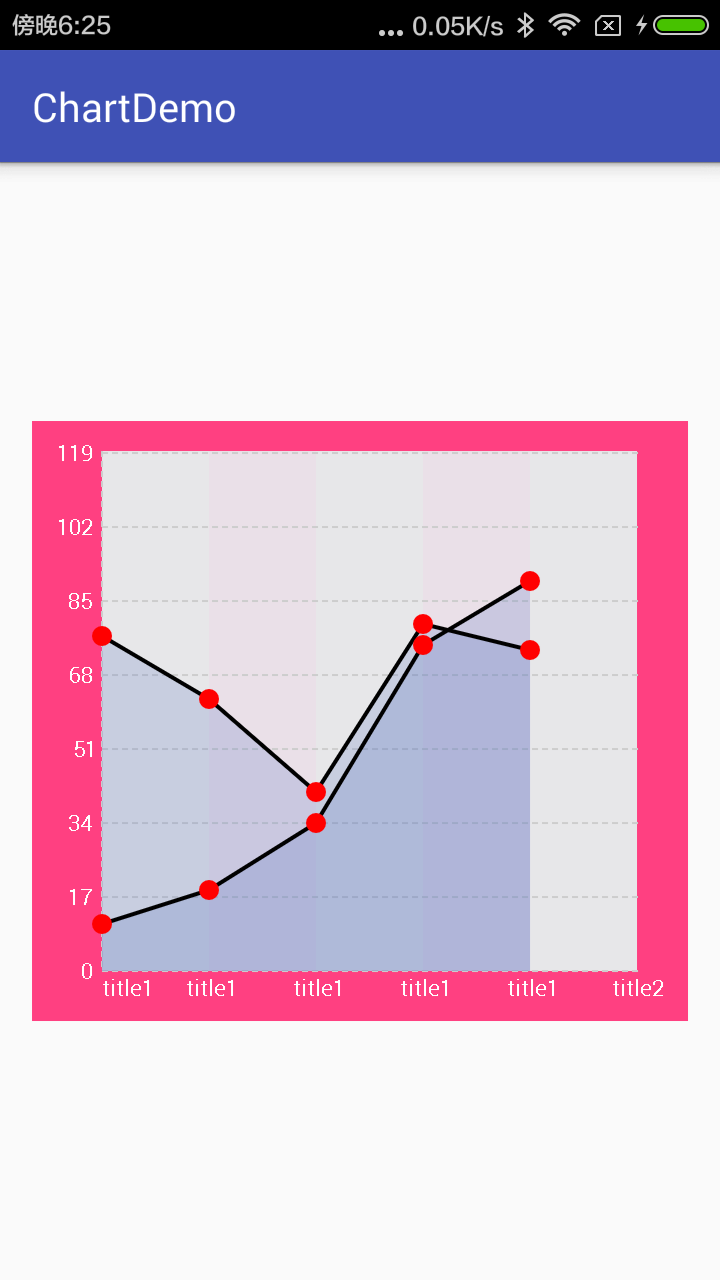
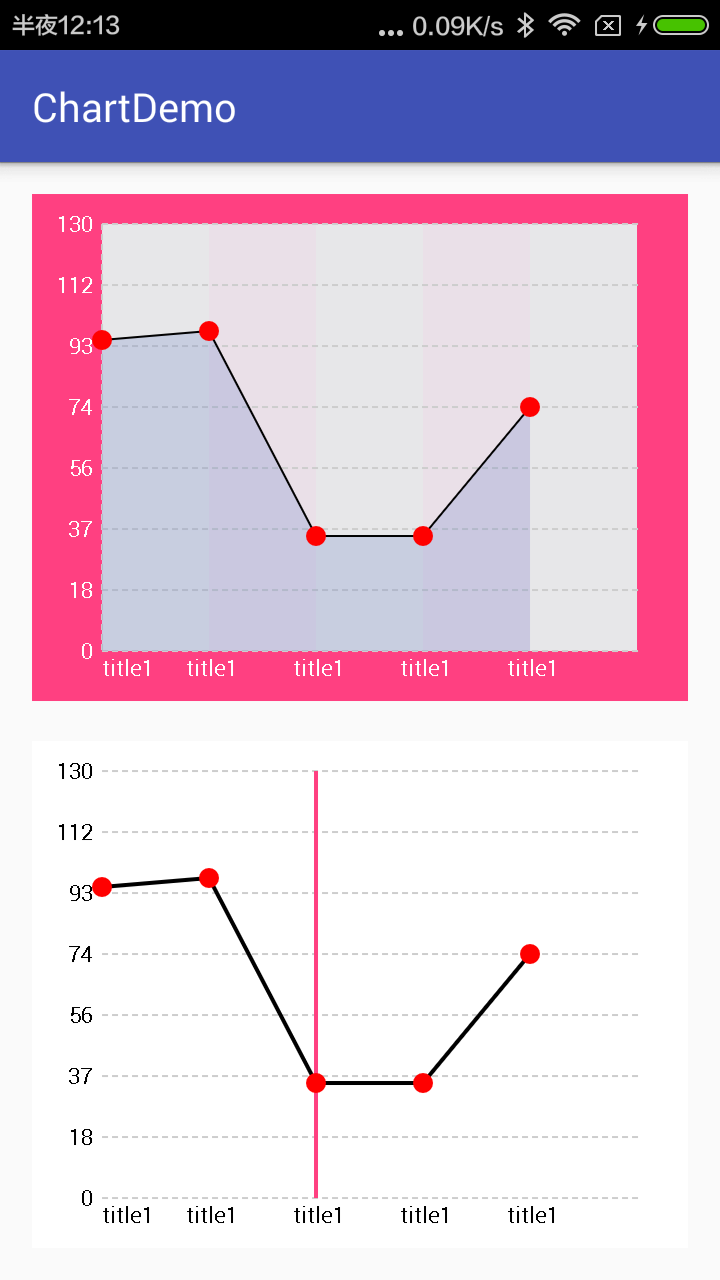
新增 特定选中Y轴内部线的 颜色、宽度

diff --git a/app/src/main/java/com/dzq/chartdemo/widget/DzqLineChart.java b/app/src/main/java/com/dzq/chartdemo/widget/DzqLineChart.java
@@ -46,12 +46,15 @@ public class DzqLineChart extends View {
 
     private int circleDotRadius = 10;//折线上圆点半径  默认10
     private int titleXRotateDegrees = 0;// X轴 标题 旋转角度
-    private float xyAxisLineStrokeWidth = 3;// X、Y 轴 线宽度，（包括内部的X、Y 轴 线 ）
+    private float xyAxisLineStrokeWidth = 2;// X、Y 轴 线宽度，（包括内部的X、Y 轴 线 ）
 
+    private int selectedPositionInsideY = -1;// 选中的 内部Y轴 position, （ >=0 && < numberOfX &&绘制内部的Y轴完成）  才会绘制出来
+    private int selectedPositionInsideYLineColor = Color.BLACK;//选中的 内部Y轴 的线颜色  默认黑色 Color.BLACK
+    private float selectedPositionInsideYStrokeWidth = 2;// 选中的 内部Y轴线 宽度
 
-    private Integer circleDotBitmapNotSet = Color.RED;//折线上圆点颜色  圆点Bitmap数组若不设置  圆点默认黑色 Color.RED
-    private Integer lineColorNotSet = Color.BLACK;//折线颜色  若不设置  默认黑色 Color.BLACK
-    private float lineChartStrokeWidth = 3;// 折线 宽度
+    private int circleDotBitmapNotSet = Color.RED;//折线上圆点颜色  圆点Bitmap数组若不设置  圆点默认黑色 Color.RED
+    private int lineColorNotSet = Color.BLACK;//折线颜色  若不设置  默认黑色 Color.BLACK
+    private float lineChartStrokeWidth = 2;// 折线 宽度
 
     private int bgColor = Color.WHITE;// View 的背景色   默认白色 ffffff
     private int singleColumnFillColor = Color.rgb(Integer.parseInt("e7", 16),
@@ -74,10 +77,10 @@ public class DzqLineChart extends View {
     private List<String> titleYList;// 计算得出的Y轴标题
     private List<List<Float>> pointList;// 传入的数据
 
-    private boolean isDrawXDashedY = false;// 是否绘制Y轴 虚线
+    private boolean isDrawYDashed = false;// 是否绘制Y轴 虚线
     private boolean isDrawY = true;// 是否绘制Y轴
     private boolean isDrawX = true;// 是否绘制X轴
-    private boolean isDrawXDashedX = false;// 是否绘制X轴 虚线
+    private boolean isDrawXDashed = false;// 是否绘制X轴 虚线
 
     private boolean isDrawInsideDashedY = true;// 是否绘制内部的Y轴 虚线
     private boolean isDrawInsedeY = true;// 是否绘制内部的Y轴
@@ -110,8 +113,8 @@ public class DzqLineChart extends View {
         TypedArray array = getContext().obtainStyledAttributes(attrs, R.styleable.DzqLineChart, defStyle, 0);
         isDrawX = array.getBoolean(R.styleable.DzqLineChart_isDrawX, isDrawX);
         isDrawY = array.getBoolean(R.styleable.DzqLineChart_isDrawY, isDrawY);
-        isDrawXDashedX = array.getBoolean(R.styleable.DzqLineChart_isDrawXDashedX, isDrawXDashedX);
-        isDrawXDashedY = array.getBoolean(R.styleable.DzqLineChart_isDrawXDashedY, isDrawXDashedY);
+        isDrawXDashed = array.getBoolean(R.styleable.DzqLineChart_isDrawXDashed, isDrawXDashed);
+        isDrawYDashed = array.getBoolean(R.styleable.DzqLineChart_isDrawYDashed, isDrawYDashed);
         isDrawInsideX = array.getBoolean(R.styleable.DzqLineChart_isDrawInsideX, isDrawInsideX);
         isDrawInsedeY = array.getBoolean(R.styleable.DzqLineChart_isDrawInsedeY, isDrawInsedeY);
         isDrawInsideDashedX = array.getBoolean(R.styleable.DzqLineChart_isDrawInsideDashedX, isDrawInsideDashedX);
@@ -127,6 +130,10 @@ public class DzqLineChart extends View {
         textColor = array.getColor(R.styleable.DzqLineChart_textColor, textColor);
         bgColor = array.getColor(R.styleable.DzqLineChart_bgColor, bgColor);
         xyAxisLineColor = array.getColor(R.styleable.DzqLineChart_xyAxisLineColor, xyAxisLineColor);
+
+        selectedPositionInsideY = array.getInt(R.styleable.DzqLineChart_selectedPositionInsideY, selectedPositionInsideY);
+        selectedPositionInsideYLineColor = array.getColor(R.styleable.DzqLineChart_selectedPositionInsideYLineColor, selectedPositionInsideYLineColor);
+        selectedPositionInsideYStrokeWidth = array.getDimension(R.styleable.DzqLineChart_selectedPositionInsideYStrokeWidth, selectedPositionInsideYStrokeWidth);
 
         array.recycle();
 
@@ -262,12 +269,12 @@ public class DzqLineChart extends View {
         paint.setColor(xyAxisLineColor);// //表格线颜色
         paint.setStrokeWidth(xyAxisLineStrokeWidth);
 
-        if (isDrawX) {
+        if (isDrawX) {//是否绘制X轴
             int appendX = 0;
             if (isAppendX) {
                 appendX = appendXLength;
             }
-            if (isDrawXDashedX) {
+            if (isDrawXDashed) {
                 paintDashed(canvas, paddingLeft - appendX, paddingTop + listY.get(0).y, listY.get(0).x
                                 + paddingLeft,
                         paddingTop + listY.get(0).y, xyAxisLineColor);
@@ -276,15 +283,16 @@ public class DzqLineChart extends View {
                                 + paddingLeft,
                         paddingTop + listY.get(0).y, paint);
         }
-        if (isDrawY) {
-            if (isDrawXDashedY) {
+        if (isDrawY) {//是否绘制Y轴
+            if (isDrawYDashed) {
                 paintDashed(canvas, listX.get(0).x, paddingTop, listX.get(0).x, listX.get(0).y + paddingTop, xyAxisLineColor);
             } else
                 canvas.drawLine(listX.get(0).x, paddingTop, listX.get(0).x, listX.get(0).y + paddingTop, paint);
         }
 
-        if (isDrawInsedeY) {// 绘制纵向的
-            for (int i = 1; i < listX.size(); i++) {// 第一根内部 x轴线 和 X轴线 重叠，故不绘制第一条线
+        if (isDrawInsedeY) {// 是否绘制内部的Y轴
+            for (int i = 0; i < listX.size(); i++) {// 第一根内部 y轴线 和 Y轴线 重叠，故绘制Y轴的时候 不绘制第一条线
+                if (isDrawY && i == 0) continue;
                 Point point = listX.get(i);
                 if (isDrawInsideDashedY) {
                     paintDashed(canvas, point.x, paddingTop, point.x, point.y + paddingTop, xyAxisLineColor);
@@ -294,13 +302,13 @@ public class DzqLineChart extends View {
 
             }
         }
-        if (isDrawInsideX) {// 绘制横向的
+        if (isDrawInsideX) {// 是否绘制内部的X轴
 
             int appendX = 0;
             if (isAppendX) {
                 appendX = appendXLength;
             }
-            for (int i = 1; i < listY.size(); i++) {// 第一根内部 x轴线 和 X轴线 重叠，故不绘制第一条线
+            for (int i = (isDrawX ? 1 : 0); i < listY.size(); i++) {// 第一根内部 x轴线 和 X轴线 重叠，故绘制X轴的时候 不绘制第一条线
                 Point point = listY.get(i);
                 if (isDrawInsideDashedX) {
                     paintDashed(canvas, paddingLeft - appendX, paddingTop + point.y, point.x + paddingLeft,
@@ -312,6 +320,14 @@ public class DzqLineChart extends View {
 
             }
 
+        }
+
+        //  选中的 内部Y轴 position, （selectedPositionInsideY >=0 && < numberOfX &&绘制内部的Y轴完成）  才会绘制出来
+        paint.setColor(selectedPositionInsideYLineColor);// //表格线颜色
+        paint.setStrokeWidth(selectedPositionInsideYStrokeWidth);
+        if (selectedPositionInsideY >= 0 && selectedPositionInsideY < listX.size()) {
+            Point point = listX.get(selectedPositionInsideY);
+            canvas.drawLine(point.x, paddingTop, point.x, point.y + paddingTop, paint);
         }
 
     }
@@ -511,7 +527,7 @@ public class DzqLineChart extends View {
         canvas.drawPath(path, paint);
     }
 
-    public void setTextSize(int textSize) {
+    public void setTextSize(float textSize) {
         this.textSize = textSize;
     }
 
@@ -543,6 +559,10 @@ public class DzqLineChart extends View {
         this.paddingBottom = paddingBottom;
     }
 
+    public void setyTitle2RightPadding(int yTitle2RightPadding) {
+        this.yTitle2RightPadding = yTitle2RightPadding;
+    }
+
     public void setAppendXLength(int appendXLength) {
         this.appendXLength = appendXLength;
     }
@@ -555,19 +575,31 @@ public class DzqLineChart extends View {
         this.titleXRotateDegrees = titleXRotateDegrees;
     }
 
-    public void setXyAxisLineStrokeWidth(int xyAxisLineStrokeWidth) {
+    public void setXyAxisLineStrokeWidth(float xyAxisLineStrokeWidth) {
         this.xyAxisLineStrokeWidth = xyAxisLineStrokeWidth;
     }
 
-    public void setCircleDotBitmapNotSet(Integer circleDotBitmapNotSet) {
+    public void setSelectedPositionInsideY(int selectedPositionInsideY) {
+        this.selectedPositionInsideY = selectedPositionInsideY;
+    }
+
+    public void setSelectedPositionInsideYLineColor(int selectedPositionInsideYLineColor) {
+        this.selectedPositionInsideYLineColor = selectedPositionInsideYLineColor;
+    }
+
+    public void setSelectedPositionInsideYStrokeWidth(float selectedPositionInsideYStrokeWidth) {
+        this.selectedPositionInsideYStrokeWidth = selectedPositionInsideYStrokeWidth;
+    }
+
+    public void setCircleDotBitmapNotSet(int circleDotBitmapNotSet) {
         this.circleDotBitmapNotSet = circleDotBitmapNotSet;
     }
 
-    public void setLineColorNotSet(Integer lineColorNotSet) {
+    public void setLineColorNotSet(int lineColorNotSet) {
         this.lineColorNotSet = lineColorNotSet;
     }
 
-    public void setLineChartStrokeWidth(int lineChartStrokeWidth) {
+    public void setLineChartStrokeWidth(float lineChartStrokeWidth) {
         this.lineChartStrokeWidth = lineChartStrokeWidth;
     }
 
@@ -595,18 +627,6 @@ public class DzqLineChart extends View {
         this.yAxisUnit = yAxisUnit;
     }
 
-    public void setScreenX(int screenX) {
-        ScreenX = screenX;
-    }
-
-    public void setScreenY(int screenY) {
-        ScreenY = screenY;
-    }
-
-    public void setMaxNumber(float maxNumber) {
-        this.maxNumber = maxNumber;
-    }
-
     public void setCircleDotBitmapList(List<Integer> circleDotBitmapList) {
         this.circleDotBitmapList = circleDotBitmapList;
     }
@@ -623,8 +643,8 @@ public class DzqLineChart extends View {
         this.pointList = pointList;
     }
 
-    public void setDrawXDashedY(boolean drawXDashedY) {
-        isDrawXDashedY = drawXDashedY;
+    public void setDrawYDashed(boolean drawYDashed) {
+        isDrawYDashed = drawYDashed;
     }
 
     public void setDrawY(boolean drawY) {
@@ -635,8 +655,8 @@ public class DzqLineChart extends View {
         isDrawX = drawX;
     }
 
-    public void setDrawXDashedX(boolean drawXDashedX) {
-        isDrawXDashedX = drawXDashedX;
+    public void setDrawXDashed(boolean drawXDashed) {
+        isDrawXDashed = drawXDashed;
     }
 
     public void setDrawInsideDashedY(boolean drawInsideDashedY) {
@@ -655,15 +675,15 @@ public class DzqLineChart extends View {
         isDrawInsideDashedX = drawInsideDashedX;
     }
 
+    public void setColumnFillColor(boolean columnFillColor) {
+        isColumnFillColor = columnFillColor;
+    }
+
     public void setFillDown(boolean fillDown) {
         isFillDown = fillDown;
     }
 
     public void setAppendX(boolean appendX) {
         isAppendX = appendX;
-    }
-
-    public void setColumnFillColor(boolean columnFillColor) {
-        isColumnFillColor = columnFillColor;
     }
 }

diff --git a/app/src/main/java/com/dzq/chartdemo/MainActivity.java b/app/src/main/java/com/dzq/chartdemo/MainActivity.java
@@ -22,6 +22,7 @@ public class MainActivity extends AppCompatActivity {
         super.onCreate(savedInstanceState);
         setContentView(R.layout.activity_main);
         DzqLineChart dzqLineChart = (DzqLineChart) findViewById(R.id.lay_lineChart);
+        DzqLineChart dzqLineChart2 = (DzqLineChart) findViewById(R.id.lay_lineChart2);
 
         pointList = new ArrayList<List<Float>>();
         titleXList = new ArrayList<String>();
@@ -30,7 +31,7 @@ public class MainActivity extends AppCompatActivity {
         circleDotBitmapList = new ArrayList<>();
         circleDotBitmapList.add(R.mipmap.icon_chart_dot);
 
-        for (int i = 0; i < 2; i++) {
+        for (int i = 0; i < 1; i++) {
             List<Float> pointInList = new ArrayList<Float>();
             for (int j = 0; j < 5; j++) {
                 Random r = new Random();
@@ -47,6 +48,9 @@ public class MainActivity extends AppCompatActivity {
 //        dzqLineChart.setLineColorList(lineColorList);
 //        dzqLineChart.setCircleDotBitmapList(circleDotBitmapList);
 //        dzqLineChart.setSingleColumnFillColor(getResources().getColor(R.color.colorAccent));
+
+        dzqLineChart2.setPointList(pointList);
+        dzqLineChart2.setTitleXList(titleXList);
 
     }
 }

diff --git a/README.md b/README.md
@@ -2,7 +2,70 @@
 android自定义控件-折线图，绝对呕心沥血之作！！！
 可以显示多条折线，能够设置的功能有：图表背景色；标题字体的大小，
 颜色；XY轴的颜色、线的宽度，实线还是虚线；折线的颜色、宽度；数据点的图标，
-不设置的话，默认红色圆点，可设置圆点半径；。。。其他功能详见代码
+不设置的话，默认红色圆点，可设置圆点半径；特定选中Y轴内部线的 颜色、宽度。。。其他功能详见代码
+
+    private float textSize = 20;// X、Y轴 字体大小  默认 20px
+    private int textColor = Color.BLACK;// X、Y轴 字体颜色   默认黑色 Color.BLACK
+
+    private int numberOfX = 6;// X轴 最多显示几个值  默认6个
+    private int numberOfY = 8;// Y轴 最多显示几个值  默认8个
+
+    private int paddingTop = 30;// View上边界距离 折线绘制区的 距离
+    private int paddingLeft = 70;// View左边界距离 Y轴的 距离
+    private int paddingRight = 50;// View右边界距离 折线绘制区的 距离
+    private int paddingBottom = 50;// View下边界距离 X轴的 距离
+
+    private int yTitle2RightPadding = 10;// Y 轴上标题距离右侧 内容区的距离
+
+    private int appendXLength = 10;// 向左X轴突出的长度
+
+    private int circleDotRadius = 10;//折线上圆点半径  默认10
+    private int titleXRotateDegrees = 0;// X轴 标题 旋转角度
+    private float xyAxisLineStrokeWidth = 2;// X、Y 轴 线宽度，（包括内部的X、Y 轴 线 ）
+
+    private int selectedPositionInsideY = -1;// 选中的 内部Y轴 position, （ >=0 && < numberOfX &&绘制内部的Y轴完成）  才会绘制出来
+    private int selectedPositionInsideYLineColor = Color.BLACK;//选中的 内部Y轴 的线颜色  默认黑色 Color.BLACK
+    private float selectedPositionInsideYStrokeWidth = 2;// 选中的 内部Y轴线 宽度
+
+    private int circleDotBitmapNotSet = Color.RED;//折线上圆点颜色  圆点Bitmap数组若不设置  圆点默认黑色 Color.RED
+    private int lineColorNotSet = Color.BLACK;//折线颜色  若不设置  默认黑色 Color.BLACK
+    private float lineChartStrokeWidth = 2;// 折线 宽度
+
+    private int bgColor = Color.WHITE;// View 的背景色   默认白色 ffffff
+    private int singleColumnFillColor = Color.rgb(Integer.parseInt("e7", 16),
+            Integer.parseInt("e7", 16), Integer.parseInt("e9", 16));// 单数列的背景色
+    private int doubleColumnFillColor = Color.rgb(Integer.parseInt("ea", 16),
+            Integer.parseInt("e0", 16), Integer.parseInt("e8", 16));// 双数列的背景色
+    private int fillDownColor = Color.rgb(Integer.parseInt("45", 16),
+            Integer.parseInt("64", 16), Integer.parseInt("bf", 16));// 折线下方填充的颜色   注意 Alpha(50)
+    private int xyAxisLineColor = Color.rgb(Integer.parseInt("74", 16),
+            Integer.parseInt("6f", 16), Integer.parseInt("e3", 16));// X、Y 轴以及表格的线颜色
+
+    private String yAxisUnit = "";// Y轴单位
+    private int ScreenX;// View 宽度
+    private int ScreenY;// View 高度
+    private float maxNumber = 0;// Y轴最大值
+
+    private List<Integer> circleDotBitmapList;// 圆点Bitmap数组，每一条线一种圆点，若不设置  默认黑色圆点 Color.BLACK
+    private List<Integer> lineColorList;//折线颜色 数组，每一条线一种颜色，若不设置  默认黑色 Color.BLACK
+    private List<String> titleXList;// 传入的X轴标题
+    private List<String> titleYList;// 计算得出的Y轴标题
+    private List<List<Float>> pointList;// 传入的数据
+
+    private boolean isDrawYDashed = false;// 是否绘制Y轴 虚线
+    private boolean isDrawY = true;// 是否绘制Y轴
+    private boolean isDrawX = true;// 是否绘制X轴
+    private boolean isDrawXDashed = false;// 是否绘制X轴 虚线
+
+    private boolean isDrawInsideDashedY = true;// 是否绘制内部的Y轴 虚线
+    private boolean isDrawInsedeY = true;// 是否绘制内部的Y轴
+    private boolean isDrawInsideX = true;// 是否绘制内部的X轴
+    private boolean isDrawInsideDashedX = true;// 是否绘制内部的X轴 虚线
+
+    private boolean isColumnFillColor = false;// 是否填充单双列颜色
+
+    private boolean isFillDown = true;// 是否填充点的下面部分
+    private boolean isAppendX = false;// X轴是否向左突出一点
 
 
 ![image](https://github.com/dingzuoqiang/LineChartDemo/blob/master/img1.png)
